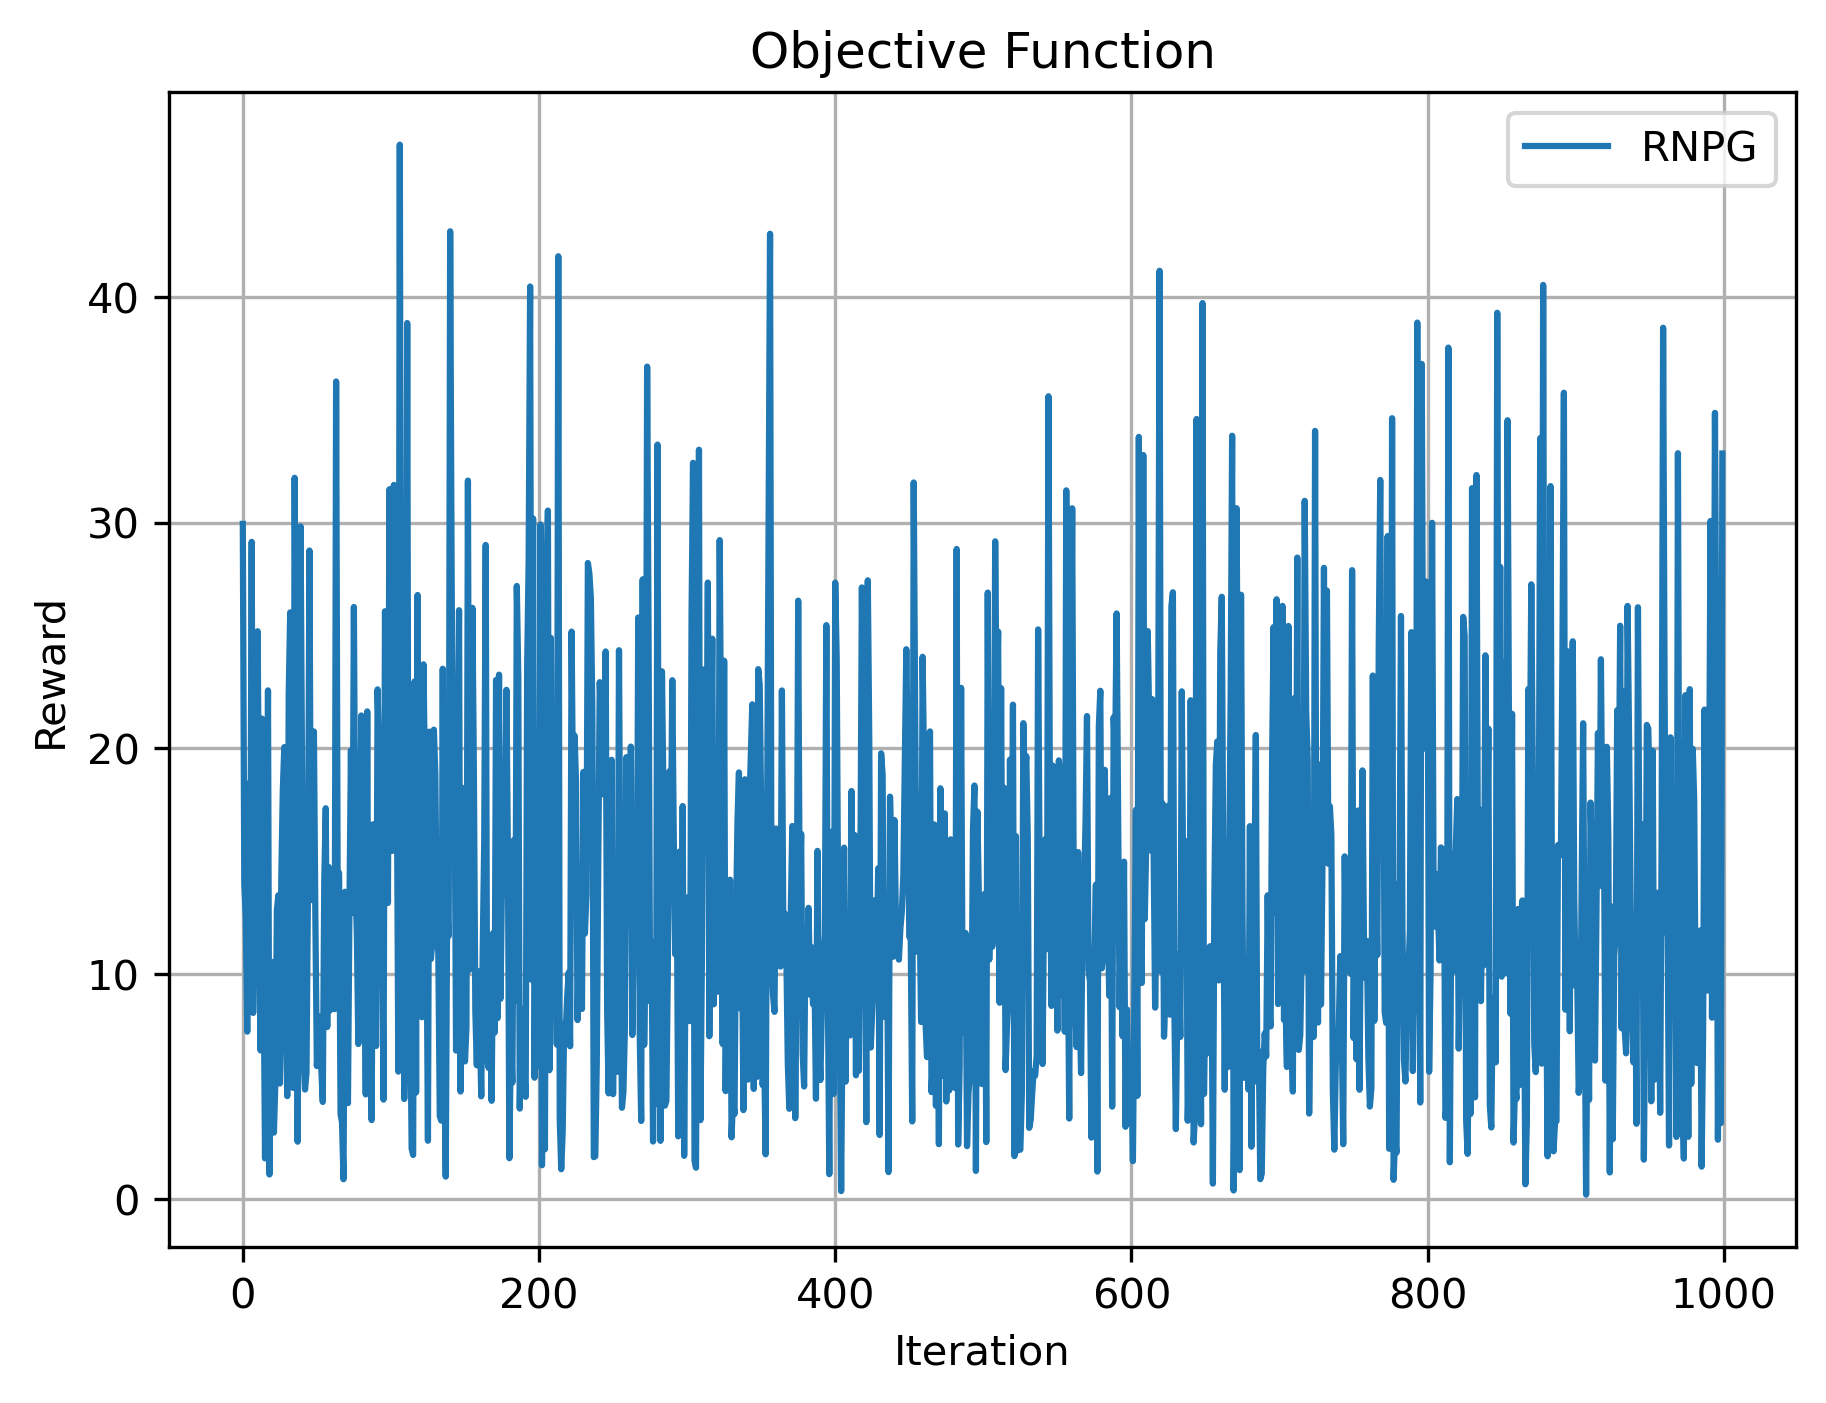
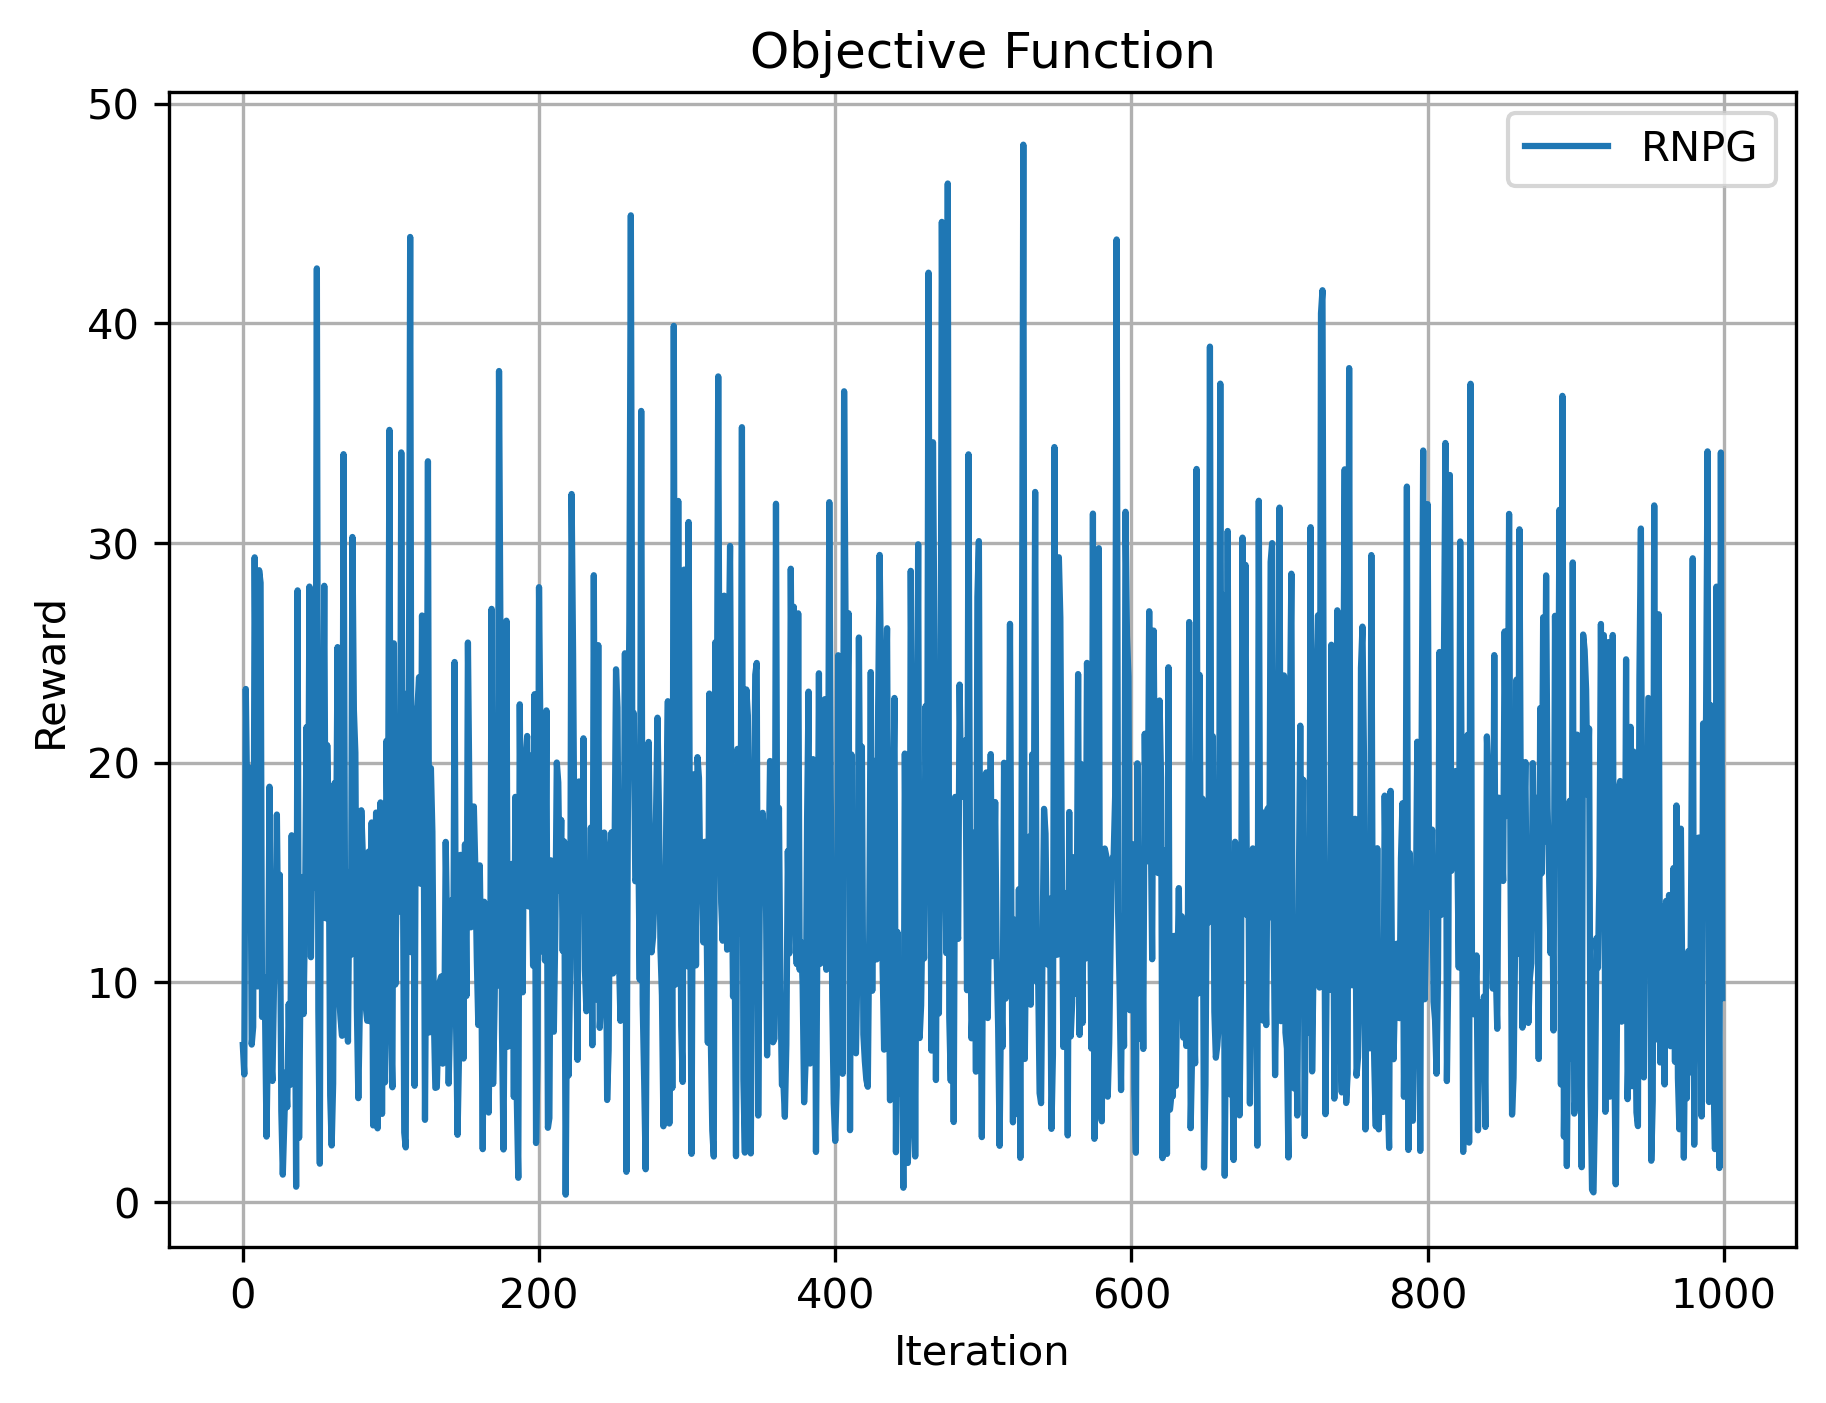
Not converging

diff --git a/River-swim/RCMDP_agent.py b/River-swim/RCMDP_agent.py
@@ -136,7 +136,7 @@ class Agent():
         #? -----------------------
         
         
-        J = rho @ V
+        J = float(rho @ V)
         J -= b
         #J = 0
         #for s in range (S):